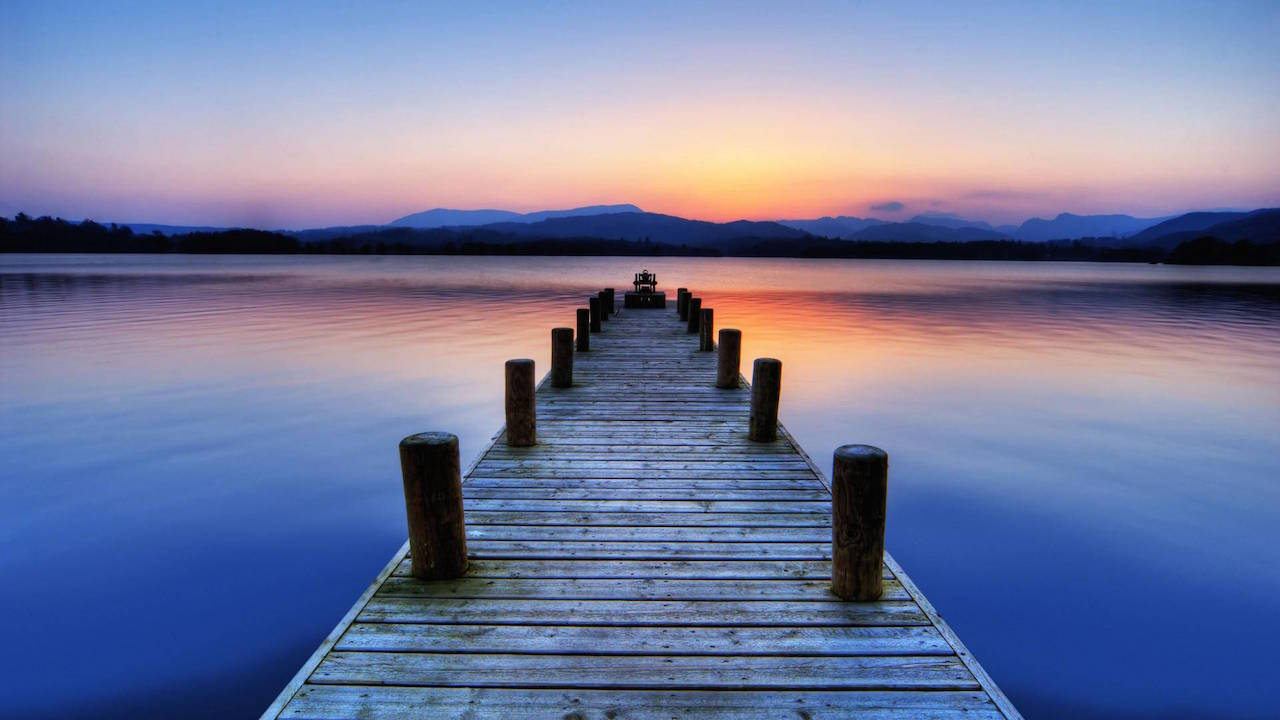
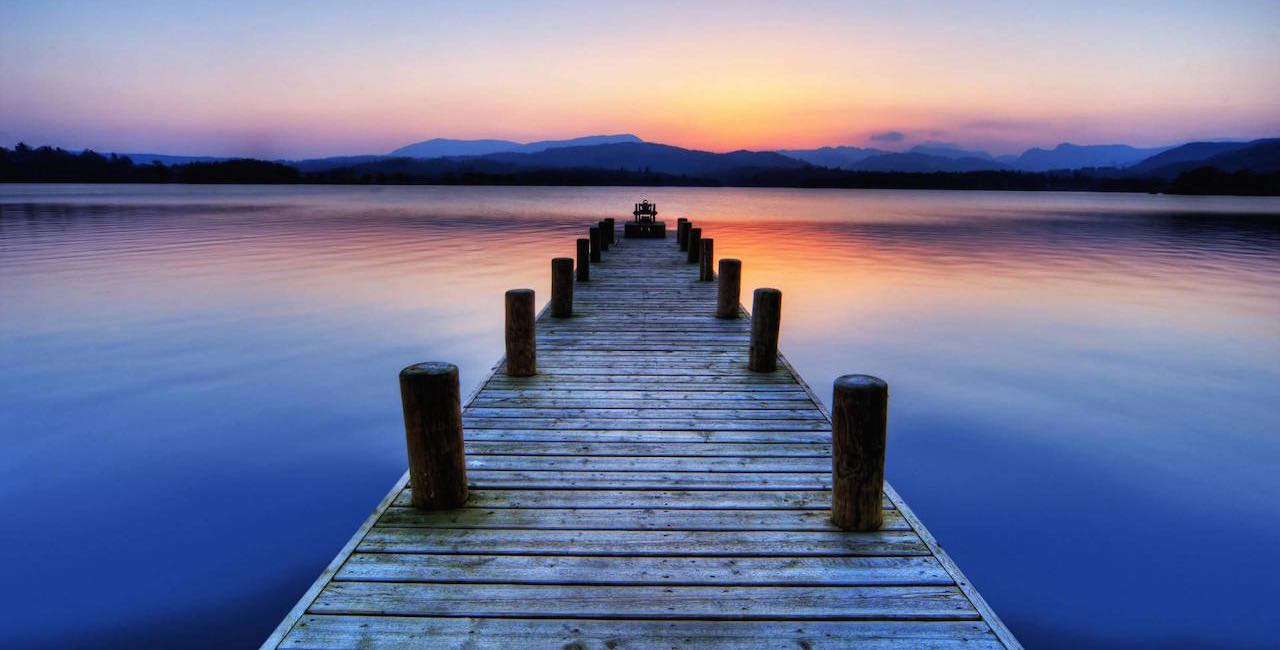
resize images for homepage for faster loading

diff --git a/app/controllers/api/v1/therapists_controller.rb b/app/controllers/api/v1/therapists_controller.rb
@@ -15,4 +15,21 @@ class Api::V1::TherapistsController < API::V1::BaseController
 
 		respond_with @therapist
 	end
+
+  def create
+    therapist = Therapist.new(therapist_params)
+
+    if therapist.save
+      render status: 201, json: { therapist: therapist }
+    else
+      render status: 422,
+             json: { therapist: { errors: therapist.errors.full_messages } }
+    end
+  end
+
+  private
+
+  def therapist_params
+    params.require(:therapist).permit(:name, :description)
+  end
 end
